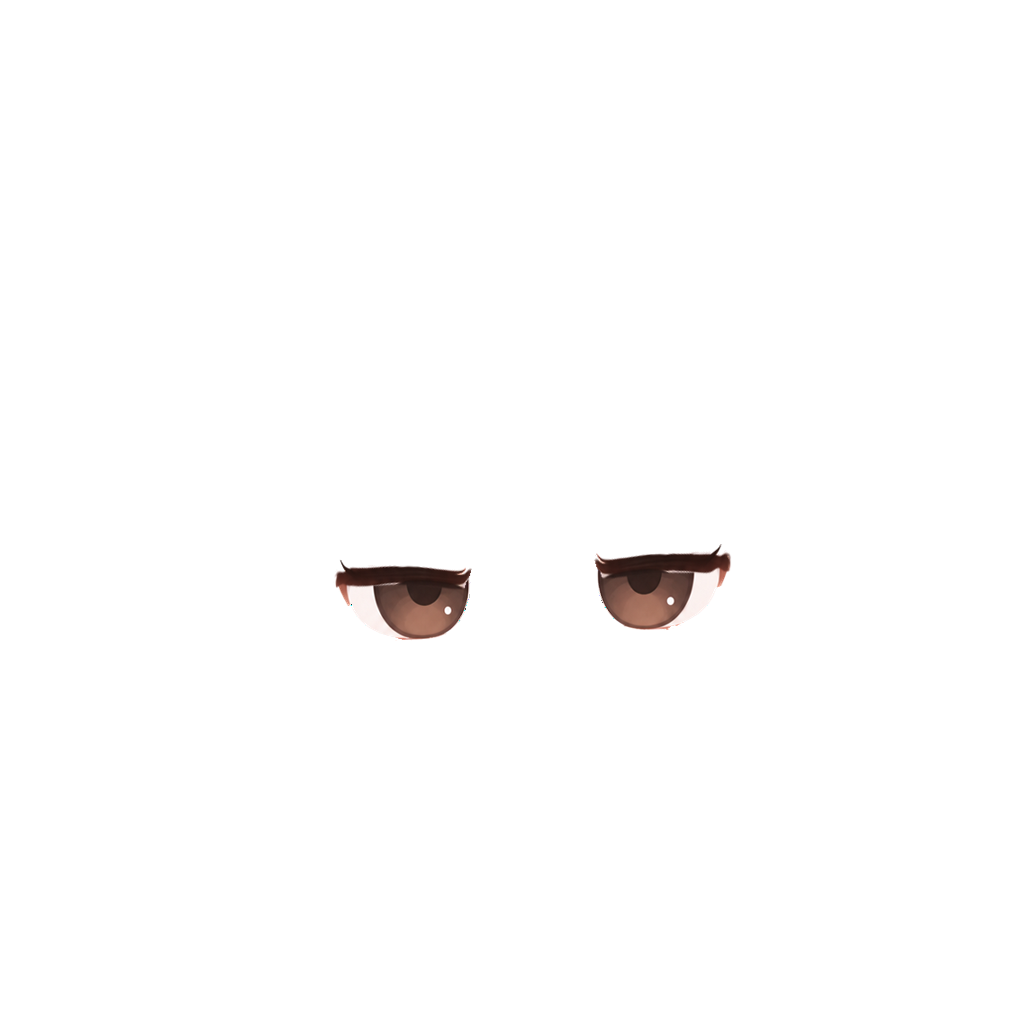
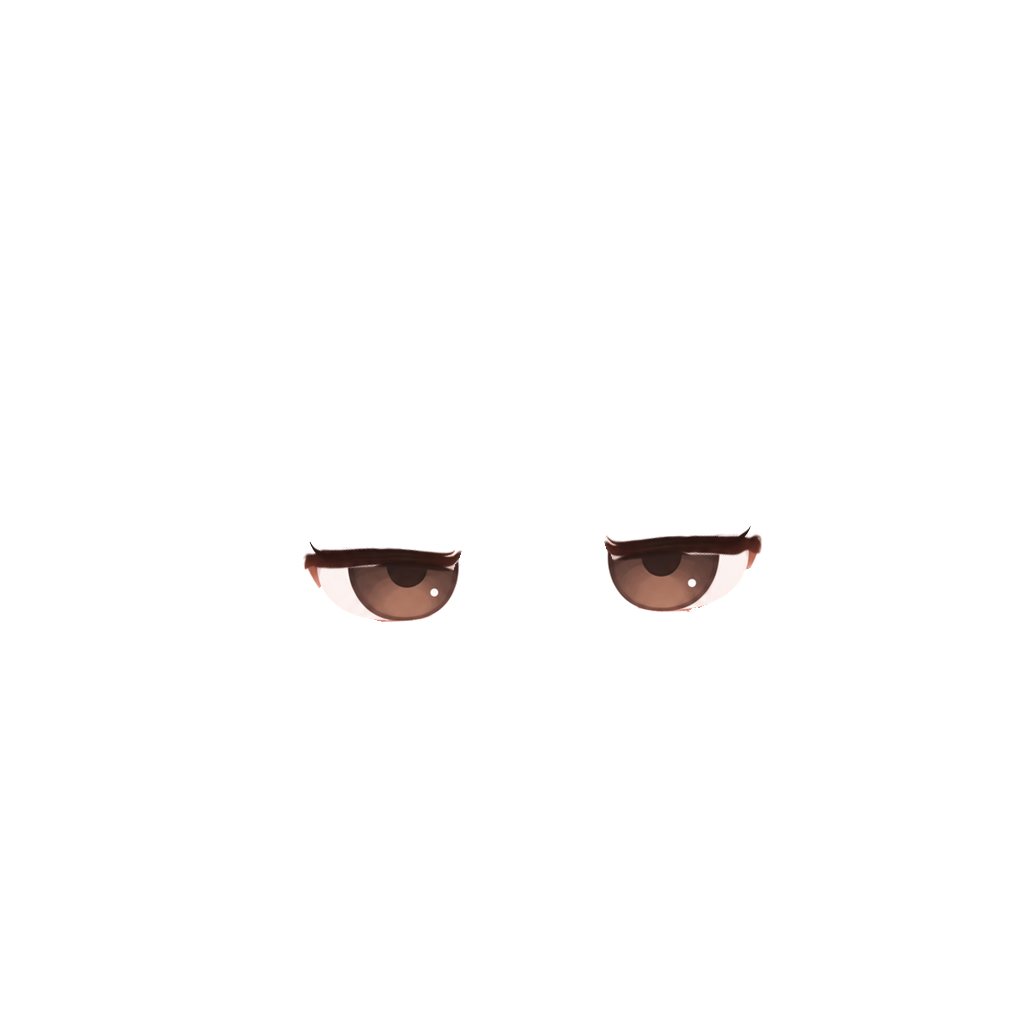
fix: 기본 여자 얼굴을 남자 얼굴과 같은 픽셀로 맞춘다 [S15P31A207-306]
- 얼굴·눈·볼·귀는 남자 레이어를 크기 변경 없이 평행 이동만 한다(정면 (14,-67), 측면 (40,-67))
- 머리카락만 새 얼굴에 맞춰 다시 놓는다. 얼굴·귀·목과 머리 사이 빈 틈 0
- 눈썹을 얼굴 층에 깨끗한 선으로 그리고, 머리카락 층에 복사돼 있던 눈썹 띠와 조각을 지운다
- 이마 채움의 얼룩과 이음선을 매끈하게 한다
- 여자 목 맞춤값과 머리 자리(SideNeckRegistration, HeadTarget), 얼굴 원 그림 배율을 새 그림에 맞춘다

Changed region(s): [[0.5625, 0.5, 0.75, 0.625], [0.2812, 0.5312, 0.4688, 0.625]]

diff --git a/android/core/avatar/src/test/kotlin/com/a207/runkk/app/core/avatar/FemaleBuiltInFaceTest.kt b/android/core/avatar/src/test/kotlin/com/a207/runkk/app/core/avatar/FemaleBuiltInFaceTest.kt
@@ -1,0 +1,67 @@
+package com.a207.runkk.app.core.avatar
+
+import android.graphics.BitmapFactory
+import kotlin.test.assertEquals
+import kotlin.test.assertTrue
+import org.junit.Test
+import org.junit.runner.RunWith
+import org.robolectric.RobolectricTestRunner
+import org.robolectric.RuntimeEnvironment
+import org.robolectric.annotation.GraphicsMode
+
+/** S15P31A207-306: 기본 여자 얼굴은 남자 원본을 목 끝에 맞춰 평행 이동한다. */
+@RunWith(RobolectricTestRunner::class)
+@GraphicsMode(GraphicsMode.Mode.NATIVE)
+class FemaleBuiltInFaceTest {
+    @Test
+    fun `정면 얼굴과 눈과 볼은 같은 이동만 적용한다`() {
+        for (name in listOf("face", "eyes_open", "eyes_half", "eyes_closed", "front_fullness_1", "front_fullness_2")) {
+            assertTranslated(name, dx = 14, dy = -67, fillAbove = if (name == "face") 516 else 0)
+        }
+    }
+
+    @Test
+    fun `측면 얼굴과 눈과 볼도 목 중심을 맞춘 같은 이동만 적용한다`() {
+        for (name in listOf("side_face", "side_eyes", "side_fullness_1", "side_fullness_2")) {
+            assertTranslated(name, dx = 40, dy = -67, fillAbove = if (name == "side_face") 515 else 0)
+        }
+        assertEquals(791f, SideNeckRegistration.FEMALE.startY)
+        assertEquals(863f, SideNeckRegistration.FEMALE.endY)
+        assertEquals(651f, SideNeckRegistration.FEMALE.centerX)
+    }
+
+    private fun assertTranslated(name: String, dx: Int, dy: Int, fillAbove: Int) {
+        val male = pixels("male", name)
+        val female = pixels("female", name)
+        var differences = 0
+        var clipped = 0
+        for (y in 0 until 1024) {
+            for (x in 0 until 1024) {
+                val targetX = x + dx
+                val targetY = y + dy
+                val source = male[y * 1024 + x]
+                if (targetX !in 0 until 1024 || targetY !in 0 until 1024) {
+                    if (source ushr 24 > 0) clipped++
+                } else if (targetY >= fillAbove && source != female[targetY * 1024 + targetX]) {
+                    differences++
+                }
+            }
+        }
+        assertEquals(0, clipped, "$name 캔버스 밖 픽셀")
+        assertEquals(0, differences, "$name 평행 이동 외 변경 픽셀")
+    }
+
+    private fun pixels(gender: String, name: String): IntArray {
+        val bitmap = RuntimeEnvironment.getApplication().assets.open("avatars/$gender/$name.png").use {
+            checkNotNull(BitmapFactory.decodeStream(it))
+        }
+        try {
+            assertEquals(1024, bitmap.width)
+            assertEquals(1024, bitmap.height)
+            assertTrue(bitmap.hasAlpha())
+            return IntArray(1024 * 1024).also { bitmap.getPixels(it, 0, 1024, 0, 0, 1024, 1024) }
+        } finally {
+            bitmap.recycle()
+        }
+    }
+}

diff --git a/android/core/avatar/src/main/java/com/a207/runkk/app/core/avatar/AvatarImages.kt b/android/core/avatar/src/main/java/com/a207/runkk/app/core/avatar/AvatarImages.kt
@@ -88,12 +88,11 @@ internal object AvatarImages {
                 } else {
                     drawRegisteredFace(canvas, face, neck)
                 }
-                drawOverlay(canvas, layers.eyes, face, clipFemaleStrand = false)
+                drawOverlay(canvas, layers.eyes, face)
                 drawOverlay(
                     canvas,
                     hairForRunningAmount(layers.hair, layers.face, amount),
-                    face,
-                    clipFemaleStrand = neck == SideNeckRegistration.FEMALE
+                    face
                 )
                 return encode(result)
             } finally {
@@ -125,18 +124,11 @@ internal object AvatarImages {
         }
     }
 
-    private fun drawOverlay(canvas: Canvas, bytes: ByteArray, face: Bitmap, clipFemaleStrand: Boolean) {
+    private fun drawOverlay(canvas: Canvas, bytes: ByteArray, face: Bitmap) {
         val overlay = decode(bytes)
         try {
             require(overlay.width == face.width && overlay.height == face.height) { "side layers differ in size" }
-            val saved = canvas.save()
-            try {
-                // 내장 여자 옆얼굴: 이 머리카락 한 가닥은 줄인 목·옷깃 뒤에 있다. 헤어 원본을 바꾸지 않고 그 자리만 가린다.
-                if (clipFemaleStrand) canvas.clipOutRect(680f, 770f, 760f, 880f)
-                canvas.drawBitmap(overlay, 0f, 0f, null)
-            } finally {
-                canvas.restoreToCount(saved)
-            }
+            canvas.drawBitmap(overlay, 0f, 0f, null)
         } finally {
             overlay.recycle()
         }

diff --git a/android/core/ui/src/test/kotlin/com/a207/runkk/app/core/designsystem/RunkkAvatarPortraitTest.kt b/android/core/ui/src/test/kotlin/com/a207/runkk/app/core/designsystem/RunkkAvatarPortraitTest.kt
@@ -194,7 +194,9 @@ class RunkkAvatarPortraitTest {
             fun alpha(x: Int, y: Int) = android.graphics.Color.alpha(bitmap.getPixel(x, y))
             val crown = (0 until size).first { y -> (0 until size).any { alpha(it, y) >= 128 } }
             // 목을 늘리지 않고 머리를 내렸다(사용자 요청 2026-11-12): 정수리가 위 끝에서 조금 내려와 원 안에 든다.
-            assertTrue(crown in (size * .01f).toInt()..(size * .05f).toInt(), "$character 정수리가 원 안 위쪽이다: $crown")
+            // 여자는 남자와 같은 얼굴 배율을 쓴다(S15P31A207-306). 둥근 정수리가 남자 삐친 머리보다 낮아 조금 더 내려온다.
+            val crownMax = if (character == AvatarCharacter.FEMALE) .10f else .05f
+            assertTrue(crown in (size * .01f).toInt()..(size * crownMax).toInt(), "$character 정수리가 원 안 위쪽이다: $crown")
             assertTrue(alpha(size / 2, size - 1) >= 200, "$character 목이 아래 끝까지 이어진다")
             // 아래 끝 가운데는 목(피부색)이다(여자 긴 머리는 목 옆까지 내려와 폭으로는 가리지 않는다).
             assertTrue(android.graphics.Color.red(bitmap.getPixel(size / 2, size - 1)) > 200, "$character 아래 끝 가운데는 목")

diff --git a/android/core/avatar/src/test/kotlin/com/a207/runkk/app/core/avatar/SkinToneLayeringTest.kt b/android/core/avatar/src/test/kotlin/com/a207/runkk/app/core/avatar/SkinToneLayeringTest.kt
@@ -21,6 +21,22 @@ import org.robolectric.annotation.GraphicsMode
 @GraphicsMode(GraphicsMode.Mode.NATIVE)
 class SkinToneLayeringTest {
     @Test
+    fun `새 기본 여자 헤어는 옛 목 앞 가닥 영역도 원본대로 그린다`() {
+        val layers = SideHeadLayers(
+            face = png(1024, 1024) {},
+            eyes = png(1024, 1024) {},
+            hair = png(1024, 1024) { fill(it, 700..730, 800..830, HAIR) },
+            neckRegistration = SideNeckRegistration.FEMALE
+        )
+        val composed = decode(AvatarImages.composeSideHead(layers, amount = 0))
+        try {
+            assertEquals(HAIR, composed.getPixel(715, 815))
+        } finally {
+            composed.recycle()
+        }
+    }
+
+    @Test
     fun `측면 머리는 얼굴 피부만 어둡게 하고 눈·헤어 색은 그대로 얹는다`() {
         val layers = SideHeadLayers(
             face = png(64, 64) { fill(it, 0..63, 0..63, SKIN) },

diff --git a/android/core/avatar/src/test/kotlin/com/a207/runkk/app/core/avatar/HeadPlacementTest.kt b/android/core/avatar/src/test/kotlin/com/a207/runkk/app/core/avatar/HeadPlacementTest.kt
@@ -11,6 +11,13 @@ import kotlin.test.assertTrue
  */
 class HeadPlacementTest {
     @Test
+    fun `여자 생성 머리 목표도 새 기본 머리의 정수리와 측면 턱에 맞춘다`() {
+        assertEquals(20f, HeadTarget.FEMALE_FRONT.crownY)
+        assertEquals(20f, HeadTarget.FEMALE_SIDE.crownY)
+        assertEquals(791f, HeadTarget.FEMALE_SIDE.chinY)
+    }
+
+    @Test
     fun `턱 중심은 목표 목 자리로, 정수리는 목표 정수리 줄로 간다`() {
         for (target in HeadTarget.entries) {
             val placement = HeadPlacement.fit(centerX = 500f, chinY = 760f, crownY = 160f, target = target)

diff --git a/android/core/avatar/src/main/java/com/a207/runkk/app/core/avatar/HeadTarget.kt b/android/core/avatar/src/main/java/com/a207/runkk/app/core/avatar/HeadTarget.kt
@@ -5,9 +5,9 @@ package com.a207.runkk.app.core.avatar
  * 서버 분리·정합 오류를 이 값이나 파츠별 오프셋으로 덮지 않는다(온보딩 4절).
  */
 internal enum class HeadTarget(val centerX: Float, val chinY: Float, val crownY: Float) {
-    FEMALE_FRONT(534f, 787f, 64f),
+    FEMALE_FRONT(534f, 787f, 20f),
     MALE_FRONT(520f, 854f, 59f),
-    FEMALE_SIDE(651f, 792f, 60f),
+    FEMALE_SIDE(651f, 791f, 20f),
     MALE_SIDE(582f, 858f, 60f);
 
     companion object {

diff --git a/android/core/avatar/src/main/java/com/a207/runkk/app/core/avatar/SideNeckRegistration.kt b/android/core/avatar/src/main/java/com/a207/runkk/app/core/avatar/SideNeckRegistration.kt
@@ -13,7 +13,7 @@ internal enum class SideNeckRegistration(
     val centerX: Float
 ) {
     MALE(AvatarGender.MALE, 858f, 930f, 582f),
-    FEMALE(AvatarGender.FEMALE, 792f, 864f, 651f);
+    FEMALE(AvatarGender.FEMALE, 791f, 863f, 651f);
 
     val offsetY: Float get() = (endY - startY) * SHRINK
 

diff --git a/android/core/ui/tools/default-head/make_default_heads.py b/android/core/ui/tools/default-head/make_default_heads.py
@@ -3,10 +3,13 @@
 core/avatar 내장 기본 머리 정면 층(assets/avatars/{male,female}/face·eyes_open·hair.png, 1024 공통 캔버스)을 겹쳐
 프로필 원 목표 구도(앱 PortraitHeadFrame.TARGET과 같다)에 놓는다.
 
-- 머리 크기: 정수리(헤어 알파 128 이상 위 끝)~턱이 상자의 91%, 목 가운데는 50%. 머리 너비가 상자의 약 90%다.
+- 얼굴 배율: 남자 정수리(헤어 알파 128 이상 위 끝)~턱이 상자의 91%인 배율을 남녀가 함께 쓴다. 여자 얼굴은 남자
+  픽셀을 평행 이동한 원본이므로 헤어 높이로 배율을 다시 정하지 않는다(S15P31A207-306). 목 가운데는 50%다.
 - 원 안(avatar_default_head_*): 목은 늘리지 않고 제 길이 그대로 두고 머리를 내려, 목이 둥글게 끝나기 시작하는 줄(목 폭이 최대 폭의
-  97% 이상인 마지막 줄 다음)이 상자 바닥에 오게 한다(사용자 요청 2026-11-12). 정수리는 약 2~3%이고 목 끝 외곽선은 상자 밖이다.
-- 원 밖(avatar_default_head_*_free, [임시:D-성-193]): 정수리 -5%, 턱 86% 자리에 목은 제 길이로 둥글게 끝난다(늘리지 않는다).
+  97% 이상인 마지막 줄 다음)이 상자 바닥에 오게 한다(사용자 요청 2026-11-12). 정수리는 현재 남자 약 3%, 여자 약 9%다.
+  목 끝 외곽선은 상자 밖이다.
+- 원 밖(avatar_default_head_*_free, [임시:D-성-193]): 턱 86% 자리에 목은 제 길이로 둥글게 끝난다(늘리지 않는다).
+  정수리는 남자 -5%이고 여자는 같은 얼굴 배율에서 고유 헤어 높이를 유지한다.
 
 실행: python make_default_heads.py (저장소 android/ 기준 경로를 쓴다, Pillow 필요)
 """
@@ -57,14 +60,17 @@ def make(gender: str, in_circle: bool = True) -> Image.Image:
     face, eyes, hair = (Image.open(ASSETS / gender / f"{n}.png").convert("RGBA") for n in ("face", "eyes_open", "hair"))
     center_x, chin = CHIN[gender]
     crown = crown_of(hair)
-    scale = SIZE * (CHIN_Y - CROWN_Y) / (chin - crown)
+    reference_hair = hair if gender == "male" else Image.open(ASSETS / "male/hair.png").convert("RGBA")
+    scale = SIZE * (CHIN_Y - CROWN_Y) / (CHIN["male"][1] - crown_of(reference_hair))
     dx = SIZE * CENTER_X - center_x * scale
     bottom = neck_bottom(face)
     if in_circle:
         # 목 끝이 상자 바닥에 오게 머리를 내린다(정수리 범위 안에서). 목은 늘리지 않는다.
         end = neck_end(face, chin, bottom)
         dy = SIZE - end * scale
-        dy = min(max(dy, SIZE * CROWN_MIN - crown * scale), SIZE * CROWN_MAX - crown * scale)
+        if gender == "male":
+            dy = min(max(dy, SIZE * CROWN_MIN - crown * scale), SIZE * CROWN_MAX - crown * scale)
+        # 여자도 같은 목 줄에 놓는다. 둥근 정수리 높이 차이 때문에 얼굴을 확대하거나 위로 밀지 않는다.
         print(gender, "neck end", end, "crown %.3f" % ((crown * scale + dy) / SIZE), "chin %.3f" % ((chin * scale + dy) / SIZE))
     else:
         dy = SIZE * CHIN_Y - chin * scale
